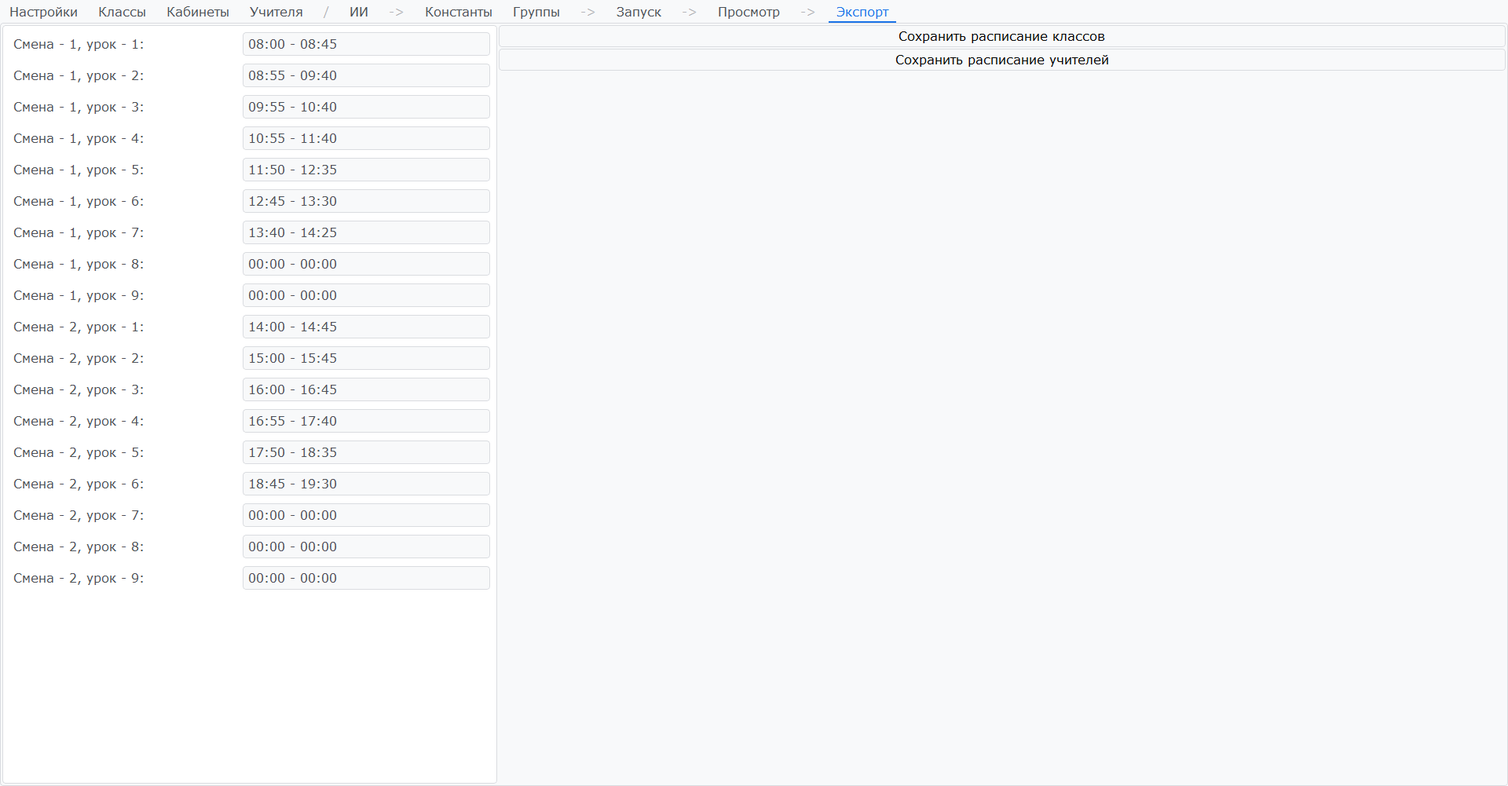
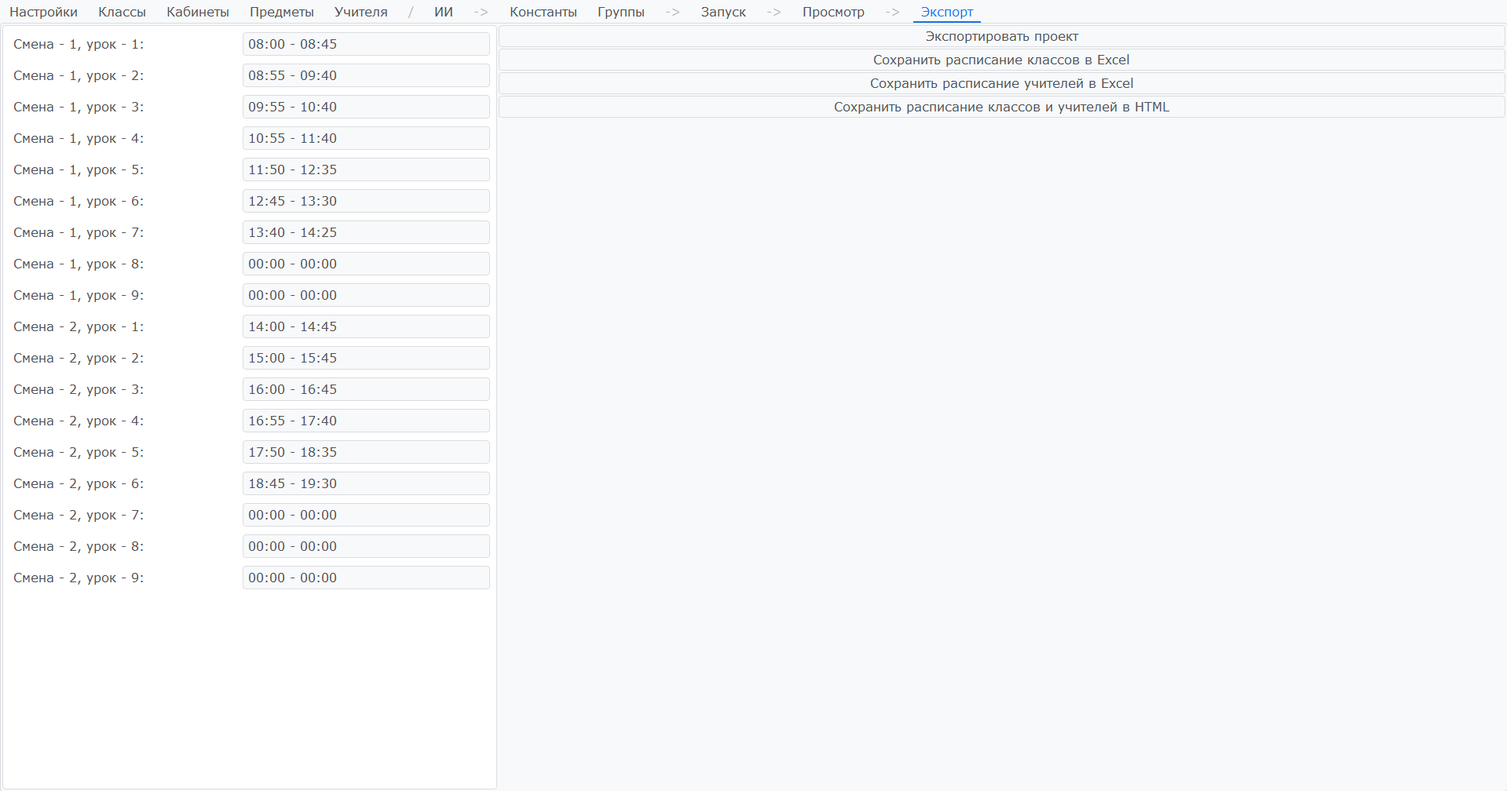
.

diff --git a/templates/ru/documentation.html b/templates/ru/documentation.html
@@ -23,7 +23,7 @@
                         <div class="main__card__steps__element__num">01</div>
 
                         <p class="main__card__steps__element__title">Установите программу</p>
-                        <p class="main__card__steps__element__subtitle">Скачайте последнюю версию приложения с официального сайта <a href="https://superzavych.pythonanywhere.com" target="_blank">СуперЗавуч</a> или соберите её самостоятельно из исходников на <a href="https://github.com/artyom7774/Schedule" target="_blank">GitHub</a>, после чего запустите программу на своём компьютере</p>
+                        <p class="main__card__steps__element__subtitle">Скачайте последнюю версию приложения с официального сайта <a href="https://superzavych.pythonanywhere.com/ru/download/" target="_blank">СуперЗавуч</a> или соберите её самостоятельно из исходников на <a href="https://github.com/artyom7774/Schedule" target="_blank">GitHub</a>, после чего запустите программу на своём компьютере</p>
                     </div>
 
                     <div class="main__card__steps__element">
@@ -44,7 +44,7 @@
 
             <div class="main__card">
                 <h2 class="main__card__text">Структура программы</h2>
-                <p class="main__card__subtext">Интерфейс разделён на 10 логических вкладок, каждая из которых отвечает за свой этап работы с проектом. Такая организация позволяет пользователю не теряться в большом объёме данных и всегда понимать, на каком этапе он находится. Работа с проектом идёт последовательно - от базовых настроек до экспорта готового расписания, и каждая вкладка логически продолжает предыдущую, формируя целостный и понятный рабочий процесс</p>
+                <p class="main__card__subtext">Интерфейс разделён на 11 логических вкладок, каждая из которых отвечает за свой этап работы с проектом. Такая организация позволяет пользователю не теряться в большом объёме данных и всегда понимать, на каком этапе он находится. Работа с проектом идёт последовательно - от базовых настроек до экспорта готового расписания, и каждая вкладка логически продолжает предыдущую, формируя целостный и понятный рабочий процесс</p>
 
                 <div class="main__card__div">
                     <div class="main__card__div__element">
@@ -220,14 +220,21 @@
                 <img src="{{ url_for('static', filename='img/documentation/constants.png') }}" alt="icon" class="main__card__img">
 
                 <h2 class="main__card__text">Константы</h2>
-                <p class="main__card__subtext">С помощью данного меню можно заморозить определённый урок в данное время для класса, что бывает незаменимо при наличии жёстких организационных требований, таких как классные часы, собрания или мероприятия</p>
+                <p class="main__card__subtext">С помощью данного меню можно заморозить определённый урок в данное время для класса, для установки жёстких организационных требований, таких как классные часы, собрания или мероприятия.</p>
 
-                <div class="main__card__div">
-                    <div class="main__card__div__element">
-                        <div class="main__card__div__element__div">
-                            <p class="main__card__div__element__div__title">Константы</p>
-                            <p class="main__card__div__element__div__subtitle">Для определённого класса и времени выбирается урок, который должен проводиться в данное время вне зависимости от решений алгоритма, что обеспечивает полный контроль над критически важными элементами расписания</p>
-                        </div>
+                <div class="main__card__widget">
+                    <img class="main__card__widget__img" src="{{ url_for('static', filename='img/documentation/constants/list.png') }}" alt="icon">
+                    <div class="main__card__widget__content">
+                        <div class="main__card__widget__title">Список классов</div>
+                        <p class="main__card__widget__text">Выбор класса для установки уроков</p>
+                    </div>
+                </div>
+
+                <div class="main__card__widget">
+                    <img class="main__card__widget__img" src="{{ url_for('static', filename='img/documentation/constants/constants.png') }}" alt="icon">
+                    <div class="main__card__widget__content">
+                        <div class="main__card__widget__title">Константы</div>
+                        <p class="main__card__widget__text">Для определённого класса и времени выбирается урок, который должен проводиться в данное время вне зависимости от решений алгоритма.</p>
                     </div>
                 </div>
             </div>
@@ -236,15 +243,13 @@
                 <img src="{{ url_for('static', filename='img/documentation/groups.png') }}" alt="icon" class="main__card__img">
 
                 <h2 class="main__card__text">Группы</h2>
-                <p class="main__card__subtext">Разделение класса на отдельные группы - полезный инструмент для современных школ, где всё чаще встречается индивидуализация обучения и деление на подгруппы по уровню или интересам</p>
+                <p class="main__card__subtext">Разделение класса на отдельные группы - инструмент для разделение класса по подгруппам (профилям).</p>
 
-                <div class="main__card__div">
-                    <div class="main__card__div__element">
-                        <div class="main__card__div__element__div">
-                            <p class="main__card__div__element__div__title">Группы</p>
-                            <p class="main__card__div__element__div__subtitle">Позволяет для каждого класса создать одну или несколько групп. Для каждой группы выбираются предметы, которые будут проводиться для этой группы отдельно от остального класса</p>
-                            <p class="main__card__div__element__div__subtitle">С помощью групп можно создавать профильные классы и работать с индивидуальным обучением, делая расписание по-настоящему гибким инструментом под нужды конкретного учебного заведения</p>
-                        </div>
+                <div class="main__card__widget">
+                    <img class="main__card__widget__img" src="{{ url_for('static', filename='img/documentation/groups/groups.png') }}" alt="icon">
+                    <div class="main__card__widget__content">
+                        <div class="main__card__widget__title">Группы</div>
+                        <p class="main__card__widget__text">Позволяет для каждого класса создать несколько групп. Для каждой группы выбираются предметы, которые будут проводиться для этой группы отдельно от остального класса. С помощью групп можно создавать профильные классы и работать с индивидуальным обучением.</p>
                     </div>
                 </div>
             </div>
@@ -253,41 +258,39 @@
                 <img src="{{ url_for('static', filename='img/documentation/run.png') }}" alt="icon" class="main__card__img">
 
                 <h2 class="main__card__text">Запуск</h2>
-                <p class="main__card__subtext">Позволяет запустить алгоритм создания расписания - центральную и самую технологичную часть всей программы, где все ранее введённые данные превращаются в готовый результат</p>
+                <p class="main__card__subtext">Запуск алгоритма создания расписания.</p>
 
-                <div class="main__card__div">
-                    <div class="main__card__div__element">
-                        <div class="main__card__div__element__div">
-                            <p class="main__card__div__element__div__title">Алгоритм</p>
-                            <p class="main__card__div__element__div__subtitle">Алгоритм основан на методе температурного отжига на графе - мощном и проверенном подходе к решению сложных задач оптимизации</p>
-                            <p class="main__card__div__element__div__subtitle">Каждое расписание, созданное алгоритмом, оценивается по ряду критериев, каждый из которых умножается на соответствующий множитель в левом меню, позволяя тонко настраивать приоритеты под конкретную школу</p>
-                            <p class="main__card__div__element__div__subtitle">Задача алгоритма - минимизировать полученную оценку, постепенно улучшая расписание шаг за шагом, пока не будет найден наиболее оптимальный вариант из возможных</p>
-                        </div>
+                <div class="main__card__widget">
+                    <img class="main__card__widget__img" src="{{ url_for('static', filename='img/documentation/run/run.png') }}" alt="icon">
+                    <div class="main__card__widget__content">
+                        <div class="main__card__widget__title">Алгоритм</div>
+                        <p class="main__card__widget__text">Алгоритм основан на методе температурного отжига на графе. Каждое расписание, созданное алгоритмом, оценивается по ряду критериев, каждый из которых умножается на соответствующий множитель в левом меню, позволяя тонко настраивать приоритеты под конкретную школу. Задача алгоритма - минимизировать полученную оценку.</p>
                     </div>
+                </div>
 
-                    <div class="main__card__div__element">
-                        <div class="main__card__div__element__div">
-                            <p class="main__card__div__element__div__title">Множители</p>
-                            <p class="main__card__div__element__div__subtitle">Одинаковые уроки - определяет, сколько баллов добавляется при двух и более одинаковых уроках в один день для класса</p>
-                            <p class="main__card__div__element__div__subtitle">Неверное количество уроков по дням - сколько баллов добавляется, если класс имеет неравное количество уроков в разные дни</p>
-                            <p class="main__card__div__element__div__subtitle">Пустые окна в уроках - сколько баллов добавляется за каждый пропуск в расписании <b>класса</b></p>
-                            <p class="main__card__div__element__div__subtitle">Дни по сложности - сколько баллов добавляется, если класс имеет неравномерную сложность уроков в разные дни</p>
-                            <p class="main__card__div__element__div__subtitle">Свободное время учителя - сколько баллов добавляется за каждый пропуск в расписании <b>учителя</b></p>
-                            <p class="main__card__div__element__div__subtitle">Маленький день учителя - сколько баллов добавляется за каждый день учителя, в котором меньше четырёх уроков</p>
-                            <p class="main__card__div__element__div__subtitle">Бонус за группу - сколько баллов <b>отнимается</b> за каждый урок с несколькими группами одновременно</p>
-                            <p class="main__card__div__element__div__subtitle">Пересечение уроков по сменам - сколько баллов добавляется за каждое пересечение уроков по сменам в расписании учителя</p>
-                            <p class="main__card__div__element__div__subtitle">Окна в группах - сколько баллов добавляется за каждый урок, где одна из групп не имеет урока, но после имеет ещё уроки</p>
-                            <p class="main__card__div__element__div__subtitle">Лимит уроков в день - сколько баллов добавляется за каждый урок выше установленного лимита уроков для учителя</p>
-                            <p class="main__card__div__element__div__subtitle">Тщательная настройка всех этих множителей позволяет добиться расписания, максимально соответствующего реальным потребностям и пожеланиям конкретной школы</p>
-                        </div>
+                <div class="main__card__widget">
+                    <img class="main__card__widget__img" src="{{ url_for('static', filename='img/documentation/run/parameters.png') }}" alt="icon">
+                    <div class="main__card__widget__content">
+                        <div class="main__card__widget__title">Множители</div>
+                        <p class="main__card__widget__text">Одинаковые уроки - определяет, сколько баллов добавляется при двух одинаковых уроках в один день класса.</p>
+                        <p class="main__card__widget__text">Неверное количество уроков - сколько баллов добавляется, если у класса неравное количество уроков в день.</p>
+                        <p class="main__card__widget__text">Пустые окна в уроках - сколько баллов добавляется за каждый пропуск в расписании <b>класса</b>.</p>
+                        <p class="main__card__widget__text">Дни по сложности - сколько баллов добавляется, если у класса неравномерная сложность уроков.</p>
+                        <p class="main__card__widget__text">Свободное время учителя - сколько баллов добавляется за каждый пропуск в расписании <b>учителя</b>.</p>
+                        <p class="main__card__widget__text">Маленький день учителя - сколько баллов добавляется за день учителя, в котором меньше пяти уроков.</p>
+                        <p class="main__card__widget__text">Бонус за группу - сколько баллов <b>отнимается</b> за каждый урок с несколькими группами одновременно.</p>
+                        <p class="main__card__widget__text">Пересечение уроков по сменам - сколько баллов добавляется за пересечение уроков в расписании учителя.</p>
+                        <p class="main__card__widget__text">Приоритет кабинета - сколько баллов добавляется за отклонение от самого приоритетного кабинета.</p>
+                        <p class="main__card__widget__text">Окна в группах - сколько баллов добавляется за урок, где группа не имеет урока, но после имеет ещё уроки.</p>
+                        <p class="main__card__widget__text">Лимит уроков в день - сколько баллов добавляется за урок выше установленного лимита уроков для учителя.</p>
                     </div>
+                </div>
 
-                    <div class="main__card__div__element">
-                        <div class="main__card__div__element__div">
-                            <p class="main__card__div__element__div__title">Запуск</p>
-                            <p class="main__card__div__element__div__subtitle">Перед началом генерации программа предупредит об ошибках и неточностях в настройках расписания, помогая избежать очевидных проблем ещё до запуска алгоритма</p>
-                            <p class="main__card__div__element__div__subtitle">После завершения работы алгоритма вы сможете подробно посмотреть и, при необходимости, экспортировать полученное расписание в удобном формате</p>
-                        </div>
+                <div class="main__card__widget">
+                    <img class="main__card__widget__img" src="{{ url_for('static', filename='img/documentation/run/warnings.png') }}" alt="icon">
+                    <div class="main__card__widget__content">
+                        <div class="main__card__widget__title">Запуск</div>
+                        <p class="main__card__widget__text">Перед началом генерации программа предупредит об ошибках и неточностях в настройках расписания, помогая избежать очевидных проблем ещё до запуска алгоритма. После завершения работы алгоритма вы сможете подробно посмотреть и, при необходимости, экспортировать полученное расписание в удобном формате.</p>
                     </div>
                 </div>
             </div>
@@ -296,14 +299,13 @@
                 <img src="{{ url_for('static', filename='img/documentation/view.png') }}" alt="icon" class="main__card__img">
 
                 <h2 class="main__card__text">Просмотр</h2>
-                <p class="main__card__subtext">Отображение составленного расписания в удобном и понятном виде, позволяющем быстро оценить результат работы алгоритма и, при необходимости, внести коррективы</p>
+                <p class="main__card__subtext">Отображение составленного расписания в удобном и понятном виде, позволяющем быстро оценить результат работы алгоритма.</p>
 
-                <div class="main__card__div">
-                    <div class="main__card__div__element">
-                        <div class="main__card__div__element__div">
-                            <p class="main__card__div__element__div__title">Просмотр</p>
-                            <p class="main__card__div__element__div__subtitle">Отображение составленного расписания относительно классов и относительно учителей, что позволяет взглянуть на итоговый результат с разных сторон и убедиться в его корректности</p>
-                        </div>
+                 <div class="main__card__widget">
+                    <img class="main__card__widget__img" src="{{ url_for('static', filename='img/documentation/view/teachers.png') }}" alt="icon">
+                    <div class="main__card__widget__content">
+                        <div class="main__card__widget__title">Просмотр</div>
+                        <p class="main__card__widget__text">Отображение составленного расписания относительно классов и относительно учителей, что позволяет взглянуть на итоговый результат с разных сторон и убедиться в его корректности.</p>
                     </div>
                 </div>
             </div>
@@ -312,21 +314,21 @@
                 <img src="{{ url_for('static', filename='img/documentation/export.png') }}" alt="icon" class="main__card__img">
 
                 <h2 class="main__card__text">Экспорт</h2>
-                <p class="main__card__subtext">Экспорт составленного расписания - завершающий этап работы с программой, после которого результат можно распечатать, разослать или разместить на сайте учебного заведения</p>
+                <p class="main__card__subtext">Экспорт составленного расписания в различные форматы.</p>
 
-                <div class="main__card__div">
-                    <div class="main__card__div__element">
-                        <div class="main__card__div__element__div">
-                            <p class="main__card__div__element__div__title">Время проведения уроков</p>
-                            <p class="main__card__div__element__div__subtitle">Для каждой смены и урока вы можете установить время, когда будет проводиться урок, чтобы итоговое расписание содержало не только порядковые номера уроков, но и конкретное время их начала и окончания</p>
-                        </div>
+                <div class="main__card__widget">
+                    <img class="main__card__widget__img" src="{{ url_for('static', filename='img/documentation/export/time.png') }}" alt="icon">
+                    <div class="main__card__widget__content">
+                        <div class="main__card__widget__title">Время проведения уроков</div>
+                        <p class="main__card__widget__text">Для каждой смены и урока вы можете установить время, когда будет проводиться урок, чтобы итоговое расписание содержало не только порядковые номера уроков, но и конкретное время их начала и окончания.</p>
                     </div>
+                </div>
 
-                    <div class="main__card__div__element">
-                        <div class="main__card__div__element__div">
-                            <p class="main__card__div__element__div__title">Экспорт</p>
-                            <p class="main__card__div__element__div__subtitle">Вы можете экспортировать расписание относительно классов и относительно учителей в формате .xlsx, что делает его удобным для дальнейшей печати, редактирования и распространения</p>
-                        </div>
+                <div class="main__card__widget">
+                    <img class="main__card__widget__img" src="{{ url_for('static', filename='img/documentation/export/export.png') }}" alt="icon">
+                    <div class="main__card__widget__content">
+                        <div class="main__card__widget__title">Экспорт</div>
+                        <p class="main__card__widget__text">Вы можете экспортировать расписание относительно классов и относительно учителей в формате .xlsx, так же вы можете экспортировать расписание в одностраничный сайт .html.</p>
                     </div>
                 </div>
             </div>
